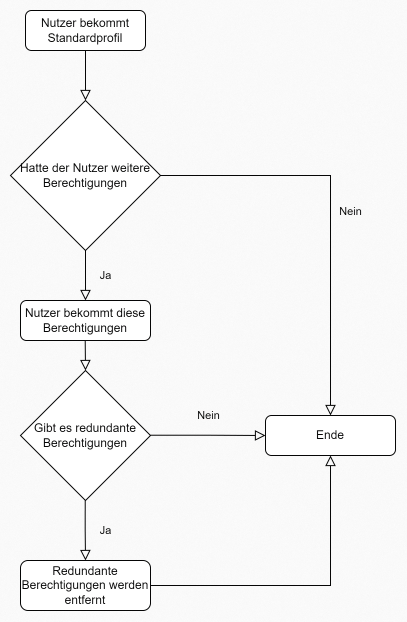
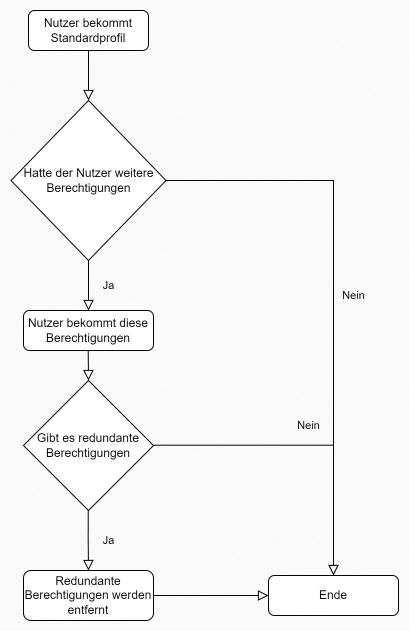
Algorithmus ende von Kapitel 5

diff --git a/chapters/examples/chapter05.tex b/chapters/examples/chapter05.tex
@@ -6,9 +6,6 @@ Dabei werden die Ergebnisse der Prioritätsanalyse verwendet und basierend mit d
 Das Konzept mit einem höheren Wert erfüllt mehr die Kriterien als das andere.
 Zum Abschluss wird die alternative racF begutachtet auf ihre Vor und Nachteile.
 
-\section{ABC-Analyse}
-\label{sec:chapter05:Anal}
-
 \section{Nutzwertanalyse}
 \label{sec:chapter05:Nutz}
 Für die Nutzwertanalyse müssen die jeweiligen \ac{TN} bestimmt werden.
@@ -118,7 +115,51 @@ Auf der anderen Seite ist jedoch die Verbesserung der Performance ist nicht stab
 Die Implementierung ist im Verhältnis zum Hierarchische Struktur Konzept deutlich einfacher, da für jeden Fachbereich die Standardprofil entwickelt werden müssen und ansonsten die restlichen Berechtigungen direkt an die Nutzer zu geteilt werden und keine neuen Profile entwickelt werden müssen.
 Jedoch besteht die Gefahr, dass bei der Menge von Berechtigungen gewisse Nutzer bestehende verlieren.
 
-\section{Ablösung ins racF}
+\section{Ablösung ins RACF}
 \label{sec:chapter05:racF}
-Donec gravida consequat arcu, et mollis tortor posuere vitae. Sed pharetra turpis a ante commodo accumsan. Suspendisse leo nulla, accumsan sit amet dapibus in, posuere eget turpis. Vivamus enim sapien, porta id placerat eget, laoreet sed massa. Class aptent taciti sociosqu ad litora torquent per conubia nostra, per inceptos himenaeos.
-
+Neben dem aktuellen DB$2$ Tabellen Modell ist auch intern der Gedanke gekommen, dass die bestehende Struktur in das \ac{RACF} ausgelagert werden kann.
+Den die Helvetia verwendet aktuell schon \ac{CICS} von IBM für die Kommunikation der internen Prozesse.
+Dabei wird auch das \ac{RACF} verwendet, weswegen überlegt wurde, ob nicht die DB$2$ Tabellen ebenso in diese Umgebung integriert werden soll.
+Das hätte den Vorteil, das sämtlich Prozess an einem Ort stattfinden und daher die Suche nach etwas vereinfacht ist.
+Zudem würde man sich von der Welt des Hosts weiter distanzieren.
+Dies wäre ein positive Aspekt, wenn das Unternehmen sich vom Host lösen möchte in der Zukunft.
+\newline
+\newline
+Für die Wechsel zwischen der DB2 Tabelle zu \ac{RACF} würden die Profile, Nutzer und Berechtigungen wie folgt geändert werden:
+\begin{itemize}
+	\item Die HDM-Vorgangsprofile werden mittels Data Control Groups dargestellt
+	\item Die Berechtigungen werden durch General Resource Profiles abgebildet
+	\item Die Nutzer werden anhand von Holding Group verkörpert
+\end{itemize}
+Die Data Control Groups fungieren als ein Schnittpunkt für die Daten, welche vor nicht autorisierten Zugriff geschützt werden soll. \cite{IBMdcg}
+Die General Resource Profiles bieten einen Schutz an für Computer Resourcen sowie andere Datenformate wie zum Beispiel Berechtigungen. \cite{IBMgrp}
+Die Nutzer werden als Holding Group dargestellt, da diese den Nutzer in das bestehende System integriert, aber dieser kaum Berechtigungen wodurch dieser keinen Zugriff auf die Berechtigungen hat.
+Dies muss über einen Administator, welcher über die CONNECT Autorität verfügt, verwaltet werden, damit der Nutzer seine Berechtigungen erhält. \cite{IBMhg}
+\newline
+\newline
+Auf der anderen Seite bestehen jedoch die folgenden Probleme:
+\begin{itemize}
+	\item Bestehende Schnittstellen
+	\item Transfer der Daten
+	\item Schulung des Personals
+\end{itemize}
+Die aktuelle DB$2$ Tabelle verfügt über verschiedene Schnittstellen für die Abfrage von Berechtigungen.
+Wenn diese durch das \ac{RACF} ersetzt werden sollen, müssen diese durch neue Schnittstellen ersetzt werden.
+Im Gespräch mit den IT-Spezialisten wurde gesagt, dass dies ein großes Problem aufweißt, da dafür ein spezielle \ac{API} entwickelt werden müsste.
+Dies würde neben dem normalen Wechsel von den DB$2$ Tabellen zu \ac{RACF} für weitere Geldkosten sorgen.
+\newline
+Ein anderes Problem ist auch der Transfer der bestehenden Daten in das \ac{RACF}.
+Für diesen Prozess müsste auch eine Schnittstelle entwickelt werden, welche bei dem Transfer die Daten in das richtige Dateiformate transformiert.
+Neben den steigenden Kosten bestehen auch das Risiko, dass bei der Transformation ein Fehler geschieht.
+\newline
+Selbst wenn die vorherigen beiden Punkte kein Problem darstellen, muss dennoch das gesamte Personal, welches mit den Tabellen gearbeitet hat für das \ac{RACF} geschult werden.
+Dies würde wieder Geld kosten sowie Zeit.
+Aufgrund dieser Faktoren ist der Wechsel in das \ac{RACF} nicht Ratsam, da zu viele große Probleme bestehen, welche Geld sowie Zeit kosten werden.
+\newline
+Sollte jedoch sich doch für das \ac{RACF} entschieden werden, würde der Algorithmus wie folgt aussehen:
+\begin{figure}[h!]
+ \centering
+ \includegraphics[width=1\textwidth]{gfx/Picture/racf.PNG}
+ \caption{Algorithmus für den Wechsel zu RACF}
+ \label{fig:racf}
+\end{figure}

diff --git a/hdathesis-config.tex b/hdathesis-config.tex
@@ -7,7 +7,7 @@
 % ****************************************************************************************************
 % 1. Personal data and user ad-hoc commands
 % ****************************************************************************************************
-\newcommand{\myTitle}{Modernisierung einer Berechtigungsstruktur im Hostbereich für die Helvetia Schweizerische Versicherungsgesellschaft AG mittels Konzeptionen\xspace}
+\newcommand{\myTitle}{Modernisierung einer Berechtigungsstruktur im Hostbereich für die Helvetia Schweizerische Versicherungsgesellschaft AG mittels Konzeptionen und Umsetzungsvorschlag\xspace}
 %\newcommand{\mySubtitle}{An Homage to The Elements of Typographic Style\xspace}
 %\newcommand{\myDegree}{Bachelor of Science (B.Sc.)\xspace} 
 %\newcommand{\myDegree}{Bachelor of Arts (B.A.)\xspace}

diff --git a/thesis.tex b/thesis.tex
@@ -73,7 +73,7 @@
 %\cleardoublepage\include{frontbackmatter/Dedication}
 %\cleardoublepage\include{frontbackmatter/Foreword}
 \cleardoublepage\include{frontbackmatter/Declaration}
-\condLOCK{\cleardoublepage\include{frontbackmatter/BlockingNotice}}
+\cleardoublepage\include{frontbackmatter/BlockingNotice}
 %\cleardoublepage\include{frontbackmatter/AbstractEN}
 \cleardoublepage\include{frontbackmatter/AbstractDE}
 %\cleardoublepage\include{frontbackmatter/Publications}

diff --git a/chapters/examples/chapter04.tex b/chapters/examples/chapter04.tex
@@ -363,7 +363,7 @@ Redundate Berechtigungen werden entfernt.
 Die Grafik (\ref{fig:Mini}) stellt dies als ein Ablaufdiagram dar.
 \begin{figure}[h!]
  \centering
- \includegraphics[width=0.99\textwidth]{gfx/Picture/Mini.PNG}
+ \includegraphics[width=1\textwidth]{gfx/Picture/Mini.PNG}
  \caption{Ablaufdiagram für das Minimalistisch Konzept}
  \label{fig:Mini}
 \end{figure}

diff --git a/frontbackmatter/Acronyms.tex b/frontbackmatter/Acronyms.tex
@@ -22,6 +22,9 @@
 	\acro{Gf}{Gewichtsfaktoren}
 	\acro{TN}{Teilnutzwert}
 	\acro{GN}{Gesamtnutzwert}
+	\acro{RACF}{Resource Access Control Facility}
+	\acro{CICS}{Customer Information Control System}
+	\acro{API}{Application Programming Interface}
 \end{acronym}
 
 \cleardoublepage
